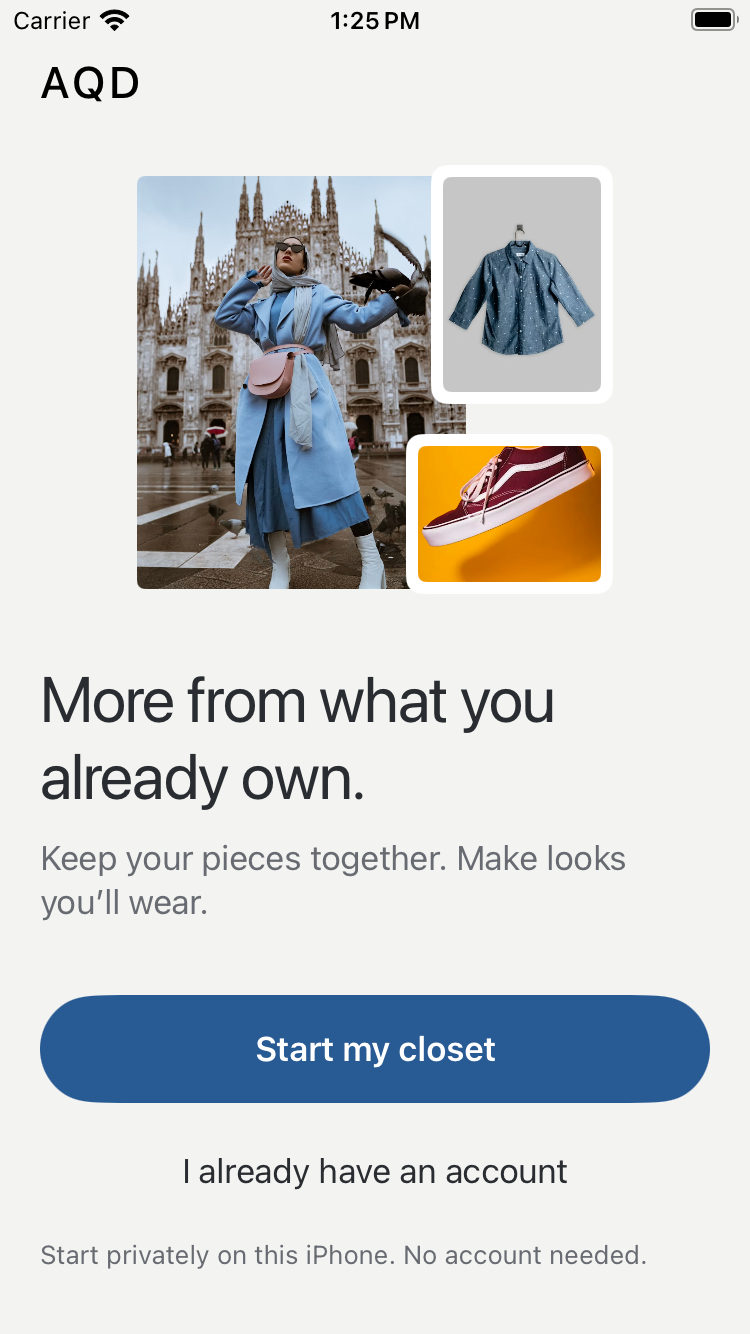
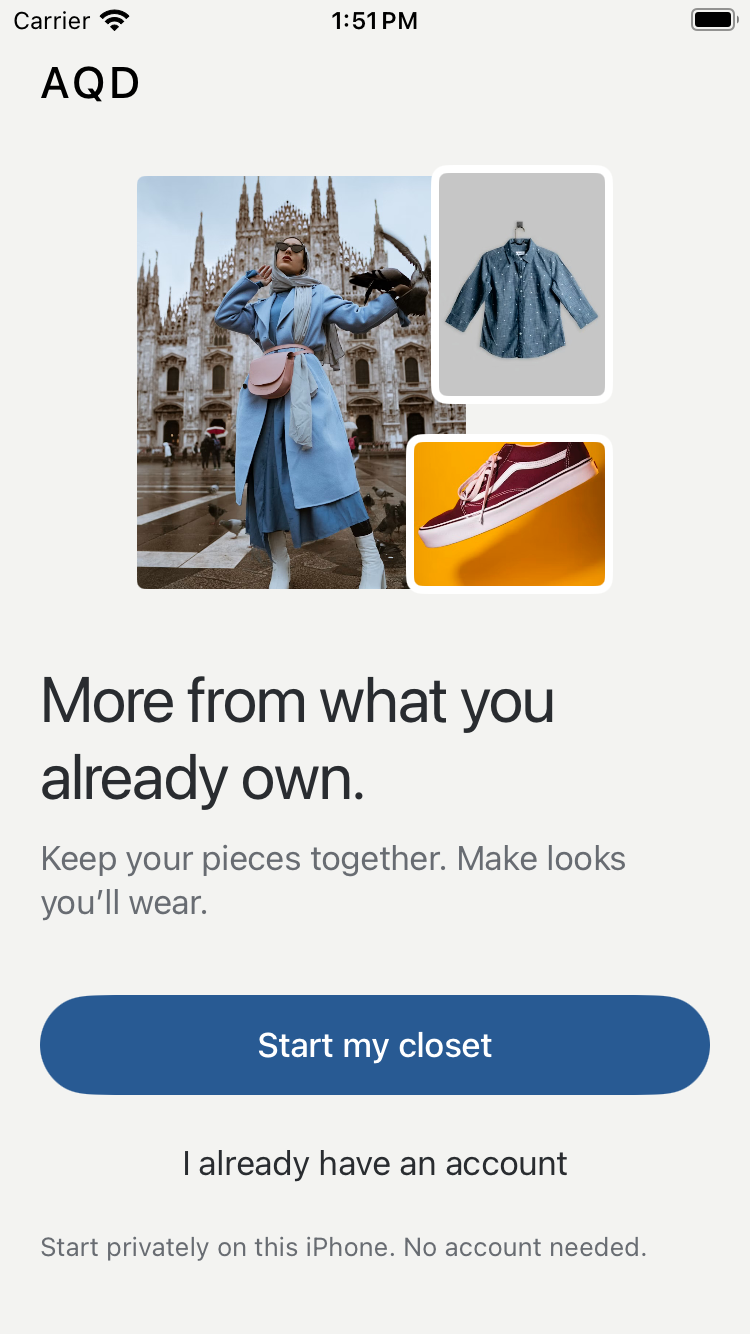
fix(ios): Align Entry typography and stabilize native navigation
Refs #3

diff --git a/apps/ios/AQD/Features/Entry/EntryRoot.swift b/apps/ios/AQD/Features/Entry/EntryRoot.swift
@@ -13,6 +13,14 @@ struct EntryRoot: View {
   @State private var preparingPhoto = false
   private let media = MediaPreparation()
   private var root: EntryRoute { flow.state.onboardingCompleted ? .closet : .welcome }
+  private var navigationPath: Binding<[EntryRoute]> {
+    Binding(
+      get: { path },
+      set: { routes in
+        path = routes
+        flow.route = routes.last ?? root
+      })
+  }
 
   var body: some View {
     GeometryReader { viewport in
@@ -21,7 +29,7 @@ struct EntryRoot: View {
   }
 
   private var navigation: some View {
-    NavigationStack(path: $path) {
+    NavigationStack(path: navigationPath) {
       screen(root)
         .navigationDestination(for: EntryRoute.self) { route in screen(route) }
     }.tint(AQDColor.ink)
@@ -34,10 +42,6 @@ struct EntryRoot: View {
         } else {
           path.append(route)
         }
-      }
-      .onChange(of: path) { _, routes in
-        let current = routes.last ?? root
-        if flow.route != current { flow.route = current }
       }
       .task {
         if flow.route != root { path = [flow.route] }
@@ -139,7 +143,7 @@ struct EntryRoot: View {
       Text("Name it, choose a category, and save. Nothing is shared.").font(.callout)
         .foregroundStyle(AQDColor.secondary)
       InlineNotice(text: flow.message)
-    }.navigationTitle("Your first piece").navigationBarTitleDisplayMode(.inline)
+    }.entryNavigationTitle("Your first piece")
       .toolbar { ToolbarItem(placement: .topBarTrailing) { Button("Skip") { flow.skipCapture() } } }
   }
 
@@ -165,7 +169,7 @@ struct EntryRoot: View {
           Image(systemName: "chevron.right")
         }.frame(minHeight: 44)
       }
-    }.navigationTitle("First piece saved").navigationBarTitleDisplayMode(.inline)
+    }.entryNavigationTitle("First piece saved")
       .navigationBarBackButtonHidden()
   }
 
@@ -195,7 +199,7 @@ struct EntryRoot: View {
         ).font(.footnote).foregroundStyle(AQDColor.secondary)
         InlineNotice(text: flow.message)
       }
-    }.navigationTitle("Closet").navigationBarTitleDisplayMode(.inline)
+    }.entryNavigationTitle("Closet")
       .toolbar {
         ToolbarItem(placement: .topBarTrailing) {
           Button("Profile", systemImage: "person.crop.circle") { flow.route = .profile }
@@ -224,7 +228,7 @@ struct EntryRoot: View {
         ).foregroundStyle(AQDColor.secondary)
       }
       SecondaryAction(title: "Open my closet") { flow.openCloset() }
-    }.navigationTitle("First outfit").navigationBarTitleDisplayMode(.inline)
+    }.entryNavigationTitle("First outfit")
   }
 
   private func prepare(_ data: Data) async throws {
@@ -259,6 +263,6 @@ struct EntryRoot: View {
       }
       Text("AQD asks for camera access only when you choose to take a photo.").font(.footnote)
         .foregroundStyle(AQDColor.secondary)
-    }.navigationTitle("Camera access").navigationBarTitleDisplayMode(.inline)
+    }.entryNavigationTitle("Camera access")
   }
 }

diff --git a/apps/ios/AQD/Design/AQDDesign.swift b/apps/ios/AQD/Design/AQDDesign.swift
@@ -56,7 +56,8 @@ struct PrimaryAction: View {
       ZStack {
         Text(title).opacity(busy ? 0 : 1)
         if busy { ProgressView().accessibilityLabel("In progress") }
-      }.font(.headline).frame(maxWidth: .infinity).frame(minHeight: 28).padding(.vertical, 6)
+      }.font(.body.weight(.medium)).frame(maxWidth: .infinity).frame(minHeight: 28).padding(
+        .vertical, 4)
     }.tint(AQDColor.accent).buttonBorderShape(.capsule).disabled(disabled || busy)
       .accessibilityLabel(
         busy ? title + ", in progress" : title)
@@ -67,6 +68,18 @@ struct PrimaryAction: View {
     } else {
       button.buttonStyle(.borderedProminent)
     }
+  }
+}
+
+extension View {
+  func entryNavigationTitle(_ title: String) -> some View {
+    navigationTitle(title).navigationBarTitleDisplayMode(.inline)
+      .toolbar {
+        ToolbarItem(placement: .principal) {
+          Text(title).font(.title3.weight(.medium)).foregroundStyle(AQDColor.ink)
+            .lineLimit(1).accessibilityAddTraits(.isHeader)
+        }
+      }
   }
 }
 
@@ -125,7 +138,8 @@ struct EntryHero: View {
   }
   private var illustration: some View {
     GeometryReader { geometry in
-      let scale = min(1, geometry.size.width / 350, geometry.size.height / (firstPiece ? 244 : 324))
+      let scale = max(
+        0, min(1, geometry.size.width / 350, geometry.size.height / (firstPiece ? 244 : 324)))
       ZStack(alignment: .topLeading) {
         if firstPiece {
           photograph("FirstShirt", width: 204 * scale, height: 232 * scale, padding: 8 * scale)
@@ -135,13 +149,13 @@ struct EntryHero: View {
             width: 242 * scale, height: 304 * scale
           ).clipped().clipShape(.rect(cornerRadius: 4))
             .offset(y: 8 * scale)
-          photograph("WelcomeShirt", width: 134 * scale, height: 176 * scale, padding: 6)
+          photograph("WelcomeShirt", width: 134 * scale, height: 176 * scale, padding: 6 * scale)
             .offset(
               x: 216 * scale + (arrived || reduceMotion ? 0 : -12),
               y: arrived || reduceMotion ? 0 : 6
             )
             .animation(reduceMotion ? nil : .easeOut(duration: 0.32), value: arrived)
-          photograph("WelcomeShoe", width: 152 * scale, height: 118 * scale, padding: 6)
+          photograph("WelcomeShoe", width: 152 * scale, height: 118 * scale, padding: 6 * scale)
             .offset(
               x: 198 * scale + (arrived || reduceMotion ? 0 : -12),
               y: 198 * scale + (arrived || reduceMotion ? 0 : -6)

diff --git a/apps/ios/AQD/Features/Entry/IdentityScreens.swift b/apps/ios/AQD/Features/Entry/IdentityScreens.swift
@@ -14,7 +14,7 @@ struct IdentityScreens: View {
   @State private var reviewingRecords = false
 
   var body: some View {
-    content.navigationTitle(navigationTitle).navigationBarTitleDisplayMode(.inline)
+    content.entryNavigationTitle(navigationTitle)
       .navigationBarBackButtonHidden(route != .profile)
       .toolbar {
         if route != .profile {
@@ -30,7 +30,7 @@ struct IdentityScreens: View {
           List {
             Section("On this iPhone") { ForEach(flow.localPieces) { Text($0.name) } }
             Section("Account closet") { ForEach(identity.remotePieces) { Text($0.name) } }
-          }.navigationTitle("Review pieces").toolbar {
+          }.entryNavigationTitle("Review pieces").toolbar {
             ToolbarItem(placement: .topBarTrailing) { Button("Done") { reviewingRecords = false } }
           }
         }
@@ -395,7 +395,7 @@ private struct LegalView: View {
             "Final launch terms, retention, deletion and support policies are still required before public distribution."
           ).foregroundStyle(AQDColor.secondary)
         }.padding(20)
-      }.navigationTitle(document == .privacy ? "Privacy policy" : "Terms of service")
+      }.entryNavigationTitle(document == .privacy ? "Privacy policy" : "Terms of service")
         .toolbar { ToolbarItem(placement: .topBarTrailing) { Button("Done") { dismiss() } } }
     }
   }

diff --git a/apps/ios/AQDUITests/EntryJourneyTests.swift b/apps/ios/AQDUITests/EntryJourneyTests.swift
@@ -51,6 +51,25 @@ final class EntryJourneyTests: XCTestCase {
     XCTAssertTrue(app.staticTexts["Your private closet."].waitForExistence(timeout: 5))
   }
 
+  func testNativeBackKeepsPieceDraft() {
+    let app = application()
+    app.buttons["entry.start"].tap()
+    app.buttons["entry.manual"].tap()
+    let name = app.textFields["piece.name"]
+    XCTAssertTrue(name.waitForExistence(timeout: 5))
+    name.tap()
+    name.typeText("Travel shirt")
+    app.navigationBars["Add piece"].buttons.firstMatch.tap()
+    XCTAssertTrue(app.buttons["entry.manual"].waitForExistence(timeout: 5))
+    app.buttons["entry.manual"].tap()
+    XCTAssertTrue(name.waitForExistence(timeout: 5))
+    XCTAssertEqual(name.value as? String, "Travel shirt")
+    app.buttons["piece.category"].tap()
+    app.buttons["Tops"].tap()
+    app.buttons["piece.save"].tap()
+    XCTAssertTrue(app.staticTexts["Your first piece is saved."].waitForExistence(timeout: 5))
+  }
+
   func testPreferencesRemainOptionalAndUnselected() {
     let app = application()
     app.buttons["entry.start"].tap()

diff --git a/apps/ios/AQD/Features/Entry/PieceEditor.swift b/apps/ios/AQD/Features/Entry/PieceEditor.swift
@@ -33,7 +33,7 @@ struct PieceEditor: View {
       }.accessibilityIdentifier("piece.save")
       Text("Saving here does not upload or publish your photo.").font(.footnote).foregroundStyle(
         AQDColor.secondary)
-    }.navigationTitle("Add piece").navigationBarTitleDisplayMode(.inline)
+    }.entryNavigationTitle("Add piece")
   }
 }
 
@@ -54,7 +54,7 @@ struct PreferencesView: View {
         .textFieldStyle(.roundedBorder)
       InlineNotice(text: flow.message)
       PrimaryAction(title: "Save preferences") { save(false) }
-    }.navigationTitle("Style preferences").navigationBarTitleDisplayMode(.inline)
+    }.entryNavigationTitle("Style preferences")
       .toolbar { ToolbarItem(placement: .topBarTrailing) { Button("Skip") { save(true) } } }
   }
   private func save(_ dismissed: Bool) {

diff --git a/docs/delivery/verification.md b/docs/delivery/verification.md
@@ -21,15 +21,17 @@ Scope: [issue #3](https://github.com/vn-aj-vngrd/aqd/issues/3), branch `van/issu
 | --- | --- |
 | Native strict Swift 6 build | Passed, Xcode 26.5 with ad-hoc Simulator signing. Supabase Swift 2.55.3 and transitive lockfile pinned. |
 | Public flow tests | 19 domain/identity tests passed in the full native run; all 10 identity tests passed after the additional restored-account origin regression: invalid writes, corruption, draft restoration, account isolation, cancellation during account fetches, offline callback retry, explicit association, pin persistence and pin-based readiness. Two auth regressions were first reproduced as failing tests, then fixed. |
-| Native UI journeys | Three passed: no-photo first save/relaunch, invalid email/cancel/private Skip, and optional unselected preferences. Test attachments show welcome, capture, saved receipt, sign-in, keyboard validation and preferences. Portable snapshots: [welcome](evidence/entry-identity/welcome.png) and [first piece](evidence/entry-identity/first-piece.png). |
+| Native UI journeys | Four public journeys plus the accessibility audit passed across focused iPhone 17 and maximum-text SE runs: no-photo first save/relaunch, invalid email/cancel/private Skip, optional unselected preferences, and native Back retaining a capture draft. Test attachments show welcome, capture, saved receipt, sign-in, keyboard validation and preferences. Portable snapshots: [welcome](evidence/entry-identity/welcome.png) and [first piece](evidence/entry-identity/first-piece.png). |
 | Real local Supabase | 25 connected local checks passed, including null/empty payload rejection and photo association with Swift UUID casing. Real email delivery/PKCE verification and consumed-code rejection; owner RLS, profile uniqueness, private photo access, exact receipts, replay, collision and atomic rollback. |
 | Database lint | Passed strict public/private-schema lint (`--level warning --fail-on warning`); no schema errors. |
 | Native SDK email | Passed actual app email submission, Mailpit verification link, state-bound PKCE exchange and native return to profile setup, with no fabricated auth success. |
-| Responsive and accessibility | Standard-text journeys passed on iPhone 17 (iOS 26.5) and SE (iOS 18.1); the final SE save/relaunch rerun also passed. [SE welcome](evidence/entry-identity/se-welcome.png) and [first piece](evidence/entry-identity/se-first-piece.png) preserve the final compact composition. Native contrast/touch-description/hit-area audit passed on both devices after actual target/background fixes. Hero shrinks and centers on short screens, and is removed at accessibility sizes; legal links wrap vertically. All four SE journeys/audits also passed at maximum accessibility text in dark appearance. [SE large text](evidence/entry-identity/se-large-text.png) shows the adaptive layout. |
+| Responsive and accessibility | Standard-text journeys passed on iPhone 17 (iOS 26.5) and SE (iOS 18.1); the final SE save/relaunch rerun also passed. [SE welcome](evidence/entry-identity/se-welcome.png) and [first piece](evidence/entry-identity/se-first-piece.png) preserve the final compact composition. Native contrast/touch-description/hit-area audit passed on both devices after actual target/background fixes. Hero shrinks and centers on short screens, and is removed at accessibility sizes; legal links wrap vertically. The four existing SE journeys/audits passed at maximum accessibility text in dark appearance; the added native Back draft journey also passed after correcting the test to use the native Back control, whose accessibility label is the previous screen title. [SE large text](evidence/entry-identity/se-large-text.png) shows the adaptive layout. |
 | Review axes | Standards: four findings fixed (stale responses, route-aware exits, neutral secondary controls, restored-account origin). Spec: three findings fixed (cancellation, offline callback retry, readiness determined by the pinned item). Both final diff rechecks found no remaining blockers. |
-| CI delivery | New macOS native build/UI and Linux local-Supabase jobs preserve native artifacts. Latest-head CI and Codex review are pending until the PR is opened. |
+| CI delivery | New macOS native build/UI and Linux local-Supabase jobs preserve native artifacts. [PR #4](https://github.com/vn-aj-vngrd/aqd/pull/4): all three jobs passed on `d80007a`; the final typography/navigation update requires fresh latest-head CI. Required Codex GitHub review reported an account review quota error, so merge/release await that gate. |
 
 Local evidence bundles are untracked captures under `/private/tmp/aqd-final-verified.xcresult` (24 passed), `/private/tmp/aqd-origin-regression.xcresult` (10 passed) and `/private/tmp/aqd-responsive-se-large.xcresult` (four passed). They do not survive a fresh clone; reproducible commands and GitHub CI artifacts are the portable evidence. Simulator results do not establish physical camera behavior, live Apple provider success, VoiceOver interaction quality, hosted email delivery or App Store acceptance. The owner approved installed iOS 26.5 after Apple’s Xcode 26.5 catalog rejected the iOS 27 runtime; iOS 27 requires a later tooling update.
+
+The final fidelity audit aligned native primary labels to semantic 17-point medium, standard action height to 50 points, and centered detail titles to semantic 20-point medium. A real SE capture-navigation failure was reproduced in `/private/tmp/aqd-design-fonts-se.xcresult`. Native Back now synchronizes through the navigation binding instead of a second asynchronous path observer; forward routes remain domain-driven. Hero card padding scales uniformly, preventing negative frames during zero-size transitions. The four existing SE UI checks passed afterward with no negative-frame warnings; iPhone 17 and maximum-text SE each passed their four existing checks plus the focused native Back regression. Evidence: `/private/tmp/aqd-navigation-se.xcresult`, `/private/tmp/aqd-navigation-17.xcresult`, `/private/tmp/aqd-navigation-se-large.xcresult`, `/private/tmp/aqd-native-back-17.xcresult` and `/private/tmp/aqd-native-back-se-large.xcresult`. The two five-test bundles include the subsequently corrected Back-label test failure; the one-test bundles prove its final pass. Both review axes found no remaining source findings. SE was restored to normal text/light appearance for review after the stress test.
 
 No hosted AQD project was provisioned; existing unrelated projects were preserved. Hosted organization/cost/region, SMTP, Apple credentials/team, launch legal/retention/deletion policy and marketing-image clearance remain owner gates. The development stack is real local Supabase, not a fake successful auth mode. Signing in does not publish a profile or wardrobe; the explicit connect command confirms an immutable local snapshot before ownership changes. General sync, full cloud media restoration and lifecycle deletion remain later slices.
 
